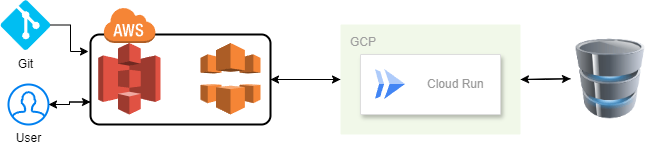
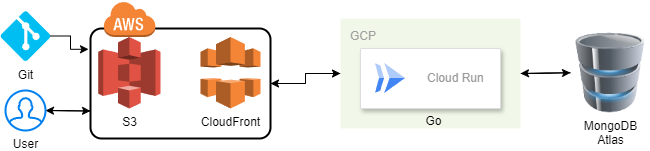
[up] 다듬음

diff --git a/src/components/Navigation/Navigation.js b/src/components/Navigation/Navigation.js
@@ -18,25 +18,25 @@ const Navigation = () => {
       
       <div className="nav-divider">Projects</div>
       
-      <NavLink to="/project/1" className={getLinkClassName}>
+      <NavLink to="/project/4" className={getLinkClassName}>
         <FolderOpen className="nav-icon" size={18} />
-        <span>Portfolio Website</span>
-      </NavLink>
-      <NavLink to="/project/2" className={getLinkClassName}>
-        <FolderOpen className="nav-icon" size={18} />
-        <span>Django와 Postgresql로<br></br> 제작한 CBT 사이트</span>
+        <span>사전 예약 시스템</span>
       </NavLink>
       <NavLink to="/project/3" className={getLinkClassName}>
         <FolderOpen className="nav-icon" size={18} />
         <span>다소니<br></br>마음과 마음을 연결하는 채팅</span>
       </NavLink>
-      <NavLink to="/project/4" className={getLinkClassName}>
+      <NavLink to="/project/2" className={getLinkClassName}>
         <FolderOpen className="nav-icon" size={18} />
-        <span>사전 예약 시스템</span>
+        <span>Django와 Postgresql로<br></br> 제작한 CBT 사이트</span>
       </NavLink>
       <NavLink to="/project/5" className={getLinkClassName}>
         <FolderOpen className="nav-icon" size={18} />
         <span>CBT를 재구성 해 서버리스로 구현</span>
+      </NavLink>
+      <NavLink to="/project/1" className={getLinkClassName}>
+        <FolderOpen className="nav-icon" size={18} />
+        <span>Portfolio Website</span>
       </NavLink>
 
       <div className="nav-divider">Certifications</div>

diff --git a/src/pages/Projects/Project5/data.js b/src/pages/Projects/Project5/data.js
@@ -49,17 +49,12 @@ export const projectData = {
     ],
   
     process: `1. 기본 환경 구축
+- MongoDB atlas에 데이터 입력
+- 기존의 Django 코드를 참고해서 GCP의 Cloud run에 Go로 구성된 백엔드 제작
 - Vite + React + TypeScript 프런트엔드 개발 환경 구성
-- WSL + VSCode 개발 환경 설정
-- GitHub Actions CI/CD 파이프라인 구성
+- GitHub Actions CI/CD 파이프라인 구성 및 S3와 CloudFront 연동
 
-2. 클라우드 인프라 구축
-- AWS S3 정적 호스팅 설정
-- CloudFront CDN 연동
-- GCP Cloud Run Go 서버 구축
-- MongoDB Atlas 데이터베이스 구성
-
-3. 핵심 기능 구현
+2. 핵심 기능 구현
 - 프런트엔드:
    - 시험 문제 출제 인터페이스 개발
    - 사용자 응답 처리 구현

diff --git a/src/pages/Overview/Overview.css b/src/pages/Overview/Overview.css
@@ -25,7 +25,7 @@
 
 /* 나머지 스타일은 동일하게 유지 */
 .project-content h3 {
-  font-size: 22px;
+  font-size: 26px;
   font-weight: 600;
   color: #1a1a1a;
   margin-bottom: 12px;
